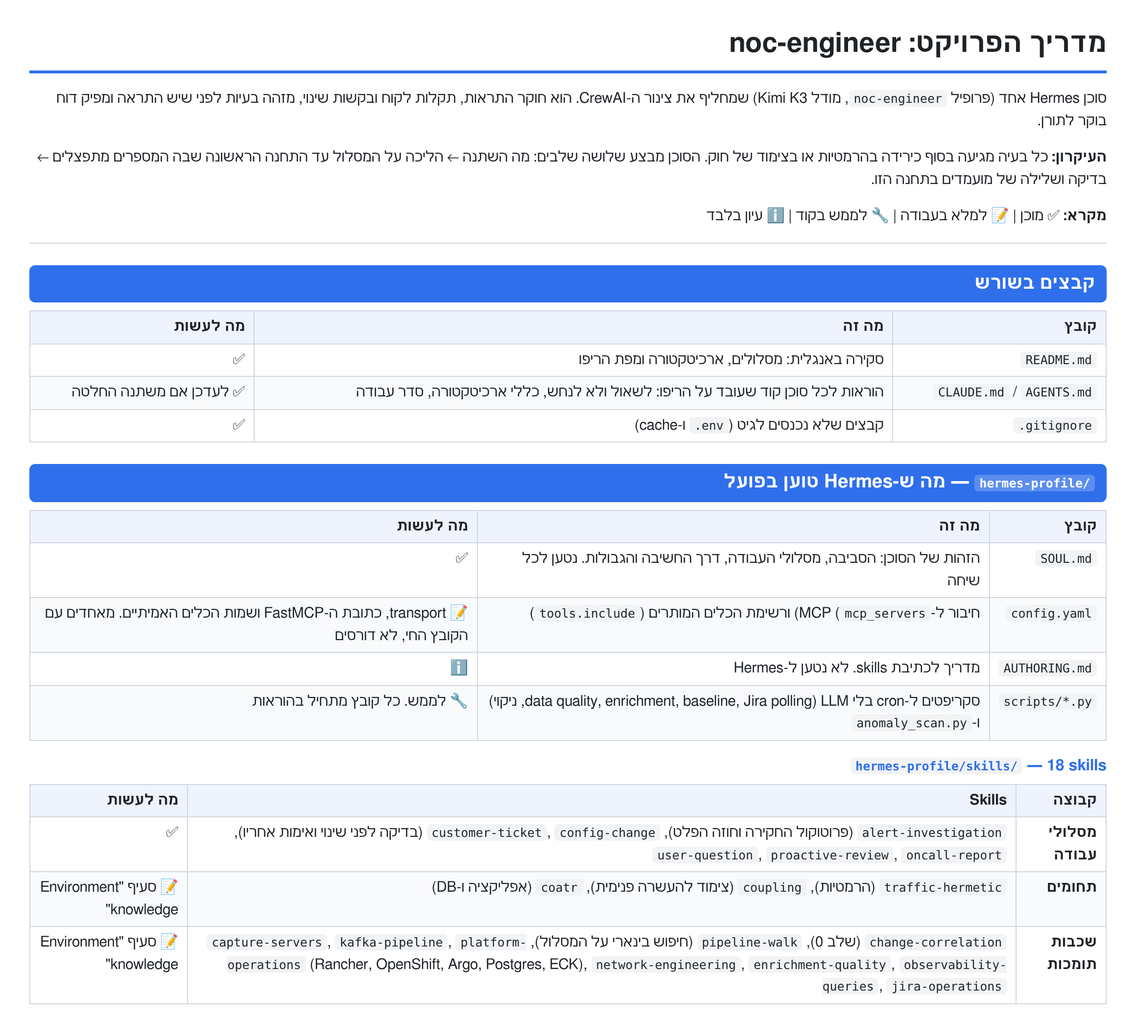
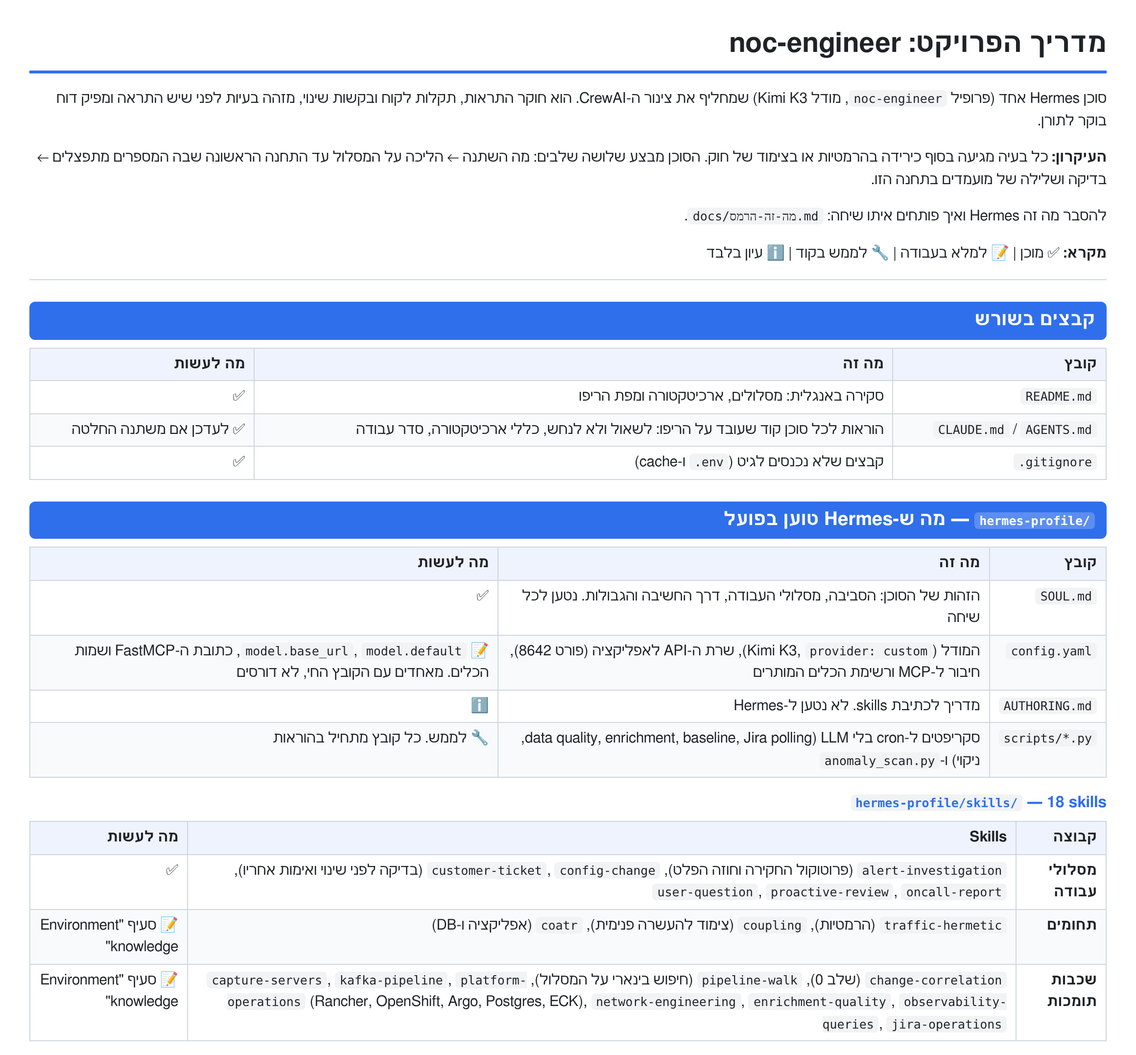
Add Hermes runtime requirements: Kimi K3 custom provider, API server, Slack gateway, k8s Service/Route; web-app chat example; Hebrew 'what is Hermes' doc

Changed region(s): [[0.0, 0.0308, 0.9931, 0.9856], [0.031, 0.8624, 0.1552, 0.9548], [0.0931, 0.77, 0.1552, 0.8316]]

diff --git a/examples/web-app/NocAgentChat.tsx b/examples/web-app/NocAgentChat.tsx
@@ -1,0 +1,64 @@
+// React chat panel for the NOC agent. Talks ONLY to your backend (/api/noc-agent/chat), never to Hermes directly.
+// FOR THE LLM / DEVELOPER: adapt styling to the app; keep messages in state and send the full history each turn
+// (chat completions are stateless; the backend also sends X-Hermes-Session-Id for continuity).
+// Streams: `chat.completion.chunk` text deltas and `hermes.tool.progress` events (shown as a status line).
+import { useRef, useState } from "react";
+
+type Msg = { role: "user" | "assistant"; content: string };
+
+export function NocAgentChat() {
+  const [messages, setMessages] = useState<Msg[]>([]);
+  const [input, setInput] = useState("");
+  const [status, setStatus] = useState("");
+  const conversationId = useRef(crypto.randomUUID());
+
+  async function send() {
+    const text = input.trim();
+    if (!text) return;
+    const history: Msg[] = [...messages, { role: "user", content: text }];
+    setMessages([...history, { role: "assistant", content: "" }]);
+    setInput("");
+
+    const res = await fetch("/api/noc-agent/chat", {
+      method: "POST",
+      headers: { "Content-Type": "application/json" },
+      body: JSON.stringify({ conversation_id: conversationId.current, message_id: crypto.randomUUID(), messages: history }),
+    });
+    const reader = res.body!.getReader();
+    const decoder = new TextDecoder();
+    let buf = "";
+    for (;;) {
+      const { done, value } = await reader.read();
+      if (done) break;
+      buf += decoder.decode(value, { stream: true });
+      const lines = buf.split("\n");
+      buf = lines.pop() ?? "";
+      for (const line of lines) {
+        if (line.startsWith("event: hermes.tool.progress")) { setStatus("running tools…"); continue; }
+        if (!line.startsWith("data: ") || line === "data: [DONE]") continue;
+        try {
+          const evt = JSON.parse(line.slice(6));
+          if (evt.tool || evt.type === "hermes.tool.progress") { setStatus(`tool: ${evt.tool ?? evt.name ?? ""}`); continue; }
+          const delta = evt.choices?.[0]?.delta?.content ?? "";
+          if (delta) setMessages((m) => {
+            const copy = [...m];
+            copy[copy.length - 1] = { role: "assistant", content: copy[copy.length - 1].content + delta };
+            return copy;
+          });
+        } catch { /* ignore non-JSON lines */ }
+      }
+    }
+    setStatus("");
+  }
+
+  return (
+    <div dir="auto" style={{ display: "flex", flexDirection: "column", gap: 8 }}>
+      {messages.map((m, i) => (
+        <div key={i} style={{ whiteSpace: "pre-wrap", alignSelf: m.role === "user" ? "flex-end" : "flex-start" }}>{m.content}</div>
+      ))}
+      {status && <small>{status}</small>}
+      <textarea value={input} onChange={(e) => setInput(e.target.value)} placeholder="שאל את סוכן ה-NOC…" />
+      <button onClick={send}>שלח</button>
+    </div>
+  );
+}

diff --git a/examples/web-app/hermes_proxy.py b/examples/web-app/hermes_proxy.py
@@ -1,0 +1,52 @@
+"""Backend proxy: lets your web app's chat talk to Hermes without exposing API_SERVER_KEY to the browser.
+
+FOR THE LLM / DEVELOPER OPENING THIS FILE
+Drop this router into the app's existing Python backend (FastAPI). It streams Hermes' answer back to the UI.
+- Hermes API: OpenAI-compatible, POST {HERMES_URL}/v1/chat/completions, Bearer API_SERVER_KEY.
+- Continuity: X-Hermes-Session-Id = the UI conversation id (one per chat thread);
+  X-Hermes-Session-Key = the logged-in user (scopes long-term memory per user).
+- Idempotency-Key per user message so a network retry does not run the investigation twice.
+- Auth: use the app's own login; only allowed team members may reach this route.
+Requires: fastapi, httpx. Config from env: HERMES_URL (k8s Service/Route), HERMES_API_KEY (= API_SERVER_KEY).
+"""
+import os
+import uuid
+
+import httpx
+from fastapi import APIRouter, Depends, Request
+from fastapi.responses import StreamingResponse
+
+HERMES_URL = os.environ["HERMES_URL"].rstrip("/")          # e.g. http://hermes-noc-engineer:8642
+HERMES_API_KEY = os.environ["HERMES_API_KEY"]
+MODEL = os.environ.get("HERMES_MODEL_NAME", "noc-engineer")  # = gateway.api_server.model_name
+
+router = APIRouter()
+
+
+def current_user(request: Request) -> str:
+    """Replace with the app's real auth dependency."""
+    raise NotImplementedError
+
+
+@router.post("/api/noc-agent/chat")
+async def chat(request: Request, user: str = Depends(current_user)):
+    body = await request.json()            # {"conversation_id": "...", "messages": [{"role": "user", "content": "..."}]}
+    headers = {
+        "Authorization": f"Bearer {HERMES_API_KEY}",
+        "X-Hermes-Session-Id": body["conversation_id"],
+        "X-Hermes-Session-Key": f"user:{user}",
+        "Idempotency-Key": body.get("message_id") or str(uuid.uuid4()),
+    }
+    payload = {"model": MODEL, "messages": body["messages"], "stream": True}
+
+    async def relay():
+        async with httpx.AsyncClient(timeout=httpx.Timeout(600, connect=10)) as client:
+            async with client.stream("POST", f"{HERMES_URL}/v1/chat/completions",
+                                     json=payload, headers=headers) as r:
+                r.raise_for_status()
+                async for line in r.aiter_lines():
+                    if line.startswith(":"):       # keepalive comments
+                        continue
+                    yield line + "\n"
+
+    return StreamingResponse(relay(), media_type="text/event-stream")

diff --git a/tests/test_architecture_contracts.py b/tests/test_architecture_contracts.py
@@ -101,3 +101,18 @@ def test_sync_profile_removes_stale_repo_skills(tmp_path):
     assert not (home / "skills" / "old-repo-skill").exists()
     assert (home / "skills" / "agent-made").exists()
     assert {p.name for p in (home / "skills").iterdir()} >= set(SKILLS)
+
+
+def test_hermes_runtime_requirements_present():
+    import yaml
+    cfg = yaml.safe_load((ROOT / "hermes-profile" / "config.yaml").read_text())
+    assert cfg["model"]["provider"] == "custom" and cfg["model"]["base_url"].endswith("/v1")
+    api = cfg["gateway"]["api_server"]
+    assert api["enabled"] is True and api["port"] == 8642 and "key" not in api   # key only in .env
+    env = (ROOT / "deployment" / ".env.example").read_text()
+    for var in ["OPENAI_API_KEY", "API_SERVER_KEY", "SLACK_BOT_TOKEN", "SLACK_APP_TOKEN", "SLACK_ALLOWED_USERS", "SLACK_HOME_CHANNEL"]:
+        assert f"{var}=" in env, var
+    k8s = list(yaml.safe_load_all((ROOT / "deployment" / "k8s" / "hermes.yaml").read_text()))
+    dep = next(d for d in k8s if d["kind"] == "Deployment")
+    assert dep["spec"]["replicas"] == 1
+    assert {d["kind"] for d in k8s} >= {"Service", "Route", "PersistentVolumeClaim"}

diff --git a/docs/מה-זה-הרמס.md b/docs/מה-זה-הרמס.md
@@ -1,0 +1,60 @@
+# מה זה Hermes, ואיך הוא עובד אצלנו
+
+## במשפט אחד
+**Hermes Agent** הוא סוכן AI בקוד פתוח של Nous Research שרץ אצלנו on-prem. זה תהליך אחד שמחזיק "עובד" עם זהות, ידע מקצועי, כלים, זיכרון ולוח זמנים. אפשר לדבר איתו ב-Slack, בצ'אט באפליקציה ובטרמינל, והוא גם עובד לבד לפי שעון.
+
+**Hermes הוא לא המודל.** המודל (אצלנו Kimi K3) הוא ה"מוח" שמנסח ומחליט. Hermes הוא ה"גוף": הוא מחבר את המודל לכלים, לזיכרון, לערוצים ולמשימות מתוזמנות, ושומר על הגבולות.
+
+## ממה הוא בנוי
+| רכיב | מה זה | אצלנו |
+|---|---|---|
+| **פרופיל** | סביבה מבודדת עם תיקייה משלה (`HERMES_HOME`): זהות, הגדרות, זיכרון, היסטוריה, משימות | `noc-engineer` |
+| **SOUL.md** | ה"אישיות" והכללים. נטען לכל שיחה | מהנדס NOC שמאתר איפה התקלה, קריאה בלבד |
+| **Skills** | קבצי ידע ונהלים (`SKILL.md`). נטענים רק כשרלוונטי | 18: מסלולי עבודה, תחומים ושכבות |
+| **MCP** | הפרוטוקול שדרכו הוא מפעיל כלים חיצוניים | ה-FastMCP שלך: Prometheus, Kafka, Jira, חוקים ועוד |
+| **מודל** | ה-LLM שמאחוריו, דרך API תואם OpenAI | Kimi K3 (`provider: custom`) |
+| **זיכרון** | מה שהוא לומד לאורך זמן (`memories/`) | ידע על הסביבה. לא מסד נתונים תפעולי |
+| **Gateway** | התהליך שרץ תמיד ומחבר את הערוצים | Slack, API לאפליקציה ו-cron, בתהליך אחד |
+| **Cron** | משימות מתוזמנות, עם LLM או בלי | דוח בוקר, סקירה יזומה כל 15 דקות, 5 סקריפטים |
+
+## איך שיחה עובדת
+1. משתמש כותב ב-Slack או באפליקציה.
+2. ה-Gateway מקבל את ההודעה ופותח או ממשיך סשן.
+3. Hermes בונה את ההנחיה: SOUL, הזיכרון הרלוונטי, רשימת ה-skills והכלים המותרים (`tools.include`).
+4. המודל מחליט: לטעון skill, להפעיל כלי MCP, לחשוב שוב. הלולאה חוזרת עד שיש תשובה.
+5. התשובה חוזרת לאותו ערוץ, וכל צעד נרשם בהיסטוריית הסשן.
+
+## איך משתמשים פותחים איתו שיחה
+| ערוץ | למי | איך |
+|---|---|---|
+| **Slack** | כל הצוות | מתייגים את הבוט בערוץ הצוות או שולחים לו הודעה פרטית. כל thread הוא שיחה נפרדת. רק מי שמופיע ב-`SLACK_ALLOWED_USERS` מקבל תשובה |
+| **האפליקציה שלך** | משתמשי ה-UI | רכיב צ'אט (`examples/web-app/NocAgentChat.tsx`) שקורא ל-backend שלך (`hermes_proxy.py`), שקורא ל-Hermes ב-`/v1/chat/completions` (פורט 8642). המפתח נשאר בשרת |
+| **Open WebUI / LibreChat** | אופציונלי | מחברים כ-endpoint תואם OpenAI עם `API_SERVER_KEY`, ו-Hermes מופיע כמודל `noc-engineer` |
+| **טרמינל** | מנהל ובדיקות | `hermes -p noc-engineer chat` |
+
+דוח הבוקר והתראות הסקירה היזומה נשלחים לערוץ ה-Slack שמוגדר ב-`SLACK_HOME_CHANNEL`.
+
+## מה Hermes דורש כדי לרוץ
+| מה | איפה מגדירים | מי ממלא |
+|---|---|---|
+| כתובת המודל ושם המודל | `config.yaml` → `model.base_url`, `model.default` | אתה |
+| מפתח המודל | `.env` → `OPENAI_API_KEY` | אתה (Secret) |
+| שרת MCP ורשימת כלים | `config.yaml` → `mcp_servers.noc_mcp` | אתה |
+| API לאפליקציה | `config.yaml` → `gateway.api_server`, ו-`API_SERVER_KEY` ב-`.env` | ✅ מוגדר, צריך רק מפתח |
+| Slack | `SLACK_BOT_TOKEN` (xoxb), `SLACK_APP_TOKEN` (xapp), `SLACK_ALLOWED_USERS`, `SLACK_HOME_CHANNEL` | אתה. את ה-app ב-Slack יוצרים עם Socket Mode |
+| אחסון קבוע | PVC ל-`HERMES_HOME` | אתה: storage class ונתיב ב-image |
+| תהליך רץ | `hermes -p noc-engineer gateway run`, עותק אחד בלבד | ✅ ב-`deployment/k8s/hermes.yaml` |
+
+## גבולות חשובים
+- **עותק אחד בלבד.** שני עותקים יריצו כל cron פעמיים, ו-Slack מאפשר חיבור אחד לכל token.
+- **ההרשאות נאכפות ב-MCP, לא ב-SOUL.** ה-SOUL הוא בקשה מהמודל. המניעה האמיתית היא שכלי כתיבה מסוכנים פשוט לא קיימים.
+- **כל המשתמשים מקבלים את אותם כלים.** הרשאה לפי משתמש אפשרית רק בשכבת ה-MCP או ב-backend של האפליקציה.
+- **הזיכרון משותף לפרופיל.** לא שומרים בו מידע אישי או פרטי לקוחות.
+- **את `config.yaml` החי משנים** עם `hermes config set`, לא בעריכה ידנית.
+
+## קישורים
+- תיעוד: https://hermes-agent.nousresearch.com/docs/
+- API Server: https://hermes-agent.nousresearch.com/docs/user-guide/features/api-server
+- Slack: https://hermes-agent.nousresearch.com/docs/user-guide/messaging/slack
+- Cron: https://hermes-agent.nousresearch.com/docs/user-guide/features/cron
+- MCP: https://hermes-agent.nousresearch.com/docs/reference/mcp-config-reference

diff --git a/docs/מדריך-הפרויקט.md b/docs/מדריך-הפרויקט.md
@@ -4,6 +4,8 @@
 
 **העיקרון:** כל בעיה מגיעה בסוף כירידה בהרמטיות או בצימוד של חוק. הסוכן מבצע שלושה שלבים: מה השתנה ← הליכה על המסלול עד התחנה הראשונה שבה המספרים מתפצלים ← בדיקה ושלילה של מועמדים בתחנה הזו.
 
+להסבר מה זה Hermes ואיך פותחים איתו שיחה: `docs/מה-זה-הרמס.md`.
+
 **מקרא:** ✅ מוכן | 📝 למלא בעבודה | 🔧 לממש בקוד | ℹ עיון בלבד
 
 ---
@@ -19,7 +21,7 @@
 | קובץ | מה זה | מה לעשות |
 |---|---|---|
 | `SOUL.md` | הזהות של הסוכן: הסביבה, מסלולי העבודה, דרך החשיבה והגבולות. נטען לכל שיחה | ✅ |
-| `config.yaml` | חיבור ל-MCP (`mcp_servers`) ורשימת הכלים המותרים (`tools.include`) | 📝 transport, כתובת ה-FastMCP ושמות הכלים האמיתיים. מאחדים עם הקובץ החי, לא דורסים |
+| `config.yaml` | המודל (Kimi K3, `provider: custom`), שרת ה-API לאפליקציה (פורט 8642), חיבור ל-MCP ורשימת הכלים המותרים | 📝 `model.base_url`, `model.default`, כתובת ה-FastMCP ושמות הכלים. מאחדים עם הקובץ החי, לא דורסים |
 | `AUTHORING.md` | מדריך לכתיבת skills. לא נטען ל-Hermes | ℹ |
 | `scripts/*.py` | סקריפטים ל-cron בלי LLM (data quality, enrichment, baseline, Jira polling, ניקוי) ו-`anomaly_scan.py` | 🔧 לממש. כל קובץ מתחיל בהוראות |
 
@@ -60,17 +62,24 @@
 ## `deployment/` — פריסה
 | נתיב | מה זה | מה לעשות |
 |---|---|---|
-| `k8s/` | Deployment, PVC ו-ConfigMap של הפרופיל עבור OpenShift/Rancher | 📝 image, נתיב `HERMES_HOME`, namespace, secrets |
+| `k8s/` | Deployment (`gateway run`, עותק אחד), PVC, ConfigMap של הפרופיל, Service ו-Route לפורט 8642 | 📝 image, נתיב `HERMES_HOME`, namespace, Secret. ב-Rancher: Ingress במקום Route |
 | `argocd/application.yaml` | אפליקציית Argo לפריסה ב-GitOps | 📝 repo פנימי, project, cluster |
 | `cron/install-cron.sh` + `prompts/` | יצירת 7 ג'ובים ב-`hermes cron create` | 📝 לאמת דגלים מול `hermes cron create --help`, ו-`NOC_DELIVER` לערוץ התורן |
 | `sync-profile.sh` | העתקה ידנית של הפרופיל, מוחק skills ישנים של הריפו בלבד | ✅ לפיתוח. בייצור Argo מחליף אותו |
-| `.env.example` | רשימת משתני סביבה וסודות | 📝 ממלאים ב-Secret, לא בגיט |
+| `.env.example` | משתני סביבה וסודות: `OPENAI_API_KEY`, `API_SERVER_KEY`, `SLACK_*` ו-backends | 📝 ממלאים ב-Secret, לא בגיט |
 | `config/settings.example.yaml` | הגדרות לקוד שלנו (Kafka, Postgres) | 📝 |
 | `postgres/schema.sql`, `docker-compose.yml` | סכמת היסטוריה ו-Postgres מקומי לפיתוח | ℹ |
+
+## `examples/web-app/` — צ'אט באפליקציה שלך
+| קובץ | מה זה | מה לעשות |
+|---|---|---|
+| `hermes_proxy.py` | route ב-FastAPI שמעביר את הצ'אט ל-Hermes עם stream. מפתח ה-API נשאר בשרת, יש session לפי שיחה ו-memory לפי משתמש | 🔧 לחבר ל-auth של האפליקציה ולהגדיר `HERMES_URL` ו-`HERMES_API_KEY` |
+| `NocAgentChat.tsx` | רכיב React לצ'אט עם stream וסטטוס כלים | 🔧 להתאים לעיצוב ולמקם באפליקציה |
 
 ## `docs/`
 | קובץ | מה זה | מה לעשות |
 |---|---|---|
+| `מה-זה-הרמס.md` | מה זה Hermes, ממה הוא בנוי, איך פותחים איתו שיחה ומה הוא דורש | ℹ |
 | `pipeline-map.md` | הסבר מפת המסלול ושאלות למילוי | 📝 יחד עם `pipeline.yaml` |
 | `migration-from-crewai.md` | למה המסקנות לא חתכו, מיפוי רכיבים ותוכנית shadow mode | 📝 שאלות פתוחות |
 | `hermes-mapping.md` | מה Hermes קורא מול מה הקוד שלנו קורא | ℹ |
@@ -93,4 +102,6 @@
 4. **Day 0:** Hermes עם Kimi K3 וה-FastMCP, ותחקיר של התראה אמיתית אחת מול מה ש-CrewAI כתב.
 5. **סעיפי "Environment knowledge"** ב-skills.
 6. **השוואה על היסטוריה:** 20–30 התראות שנפתרו, ואז shadow mode.
-7. **פריסה עם Argo,** ואז `install-cron.sh`.
+7. **Slack:** ליצור app עם Socket Mode, ולמלא `SLACK_BOT_TOKEN`, `SLACK_APP_TOKEN`, `SLACK_ALLOWED_USERS` ו-`SLACK_HOME_CHANNEL`.
+8. **פריסה עם Argo,** ואז `install-cron.sh`.
+9. **אפליקציה:** לחבר את `hermes_proxy.py` ואת `NocAgentChat.tsx`.

diff --git a/docs/hermes-mapping.md b/docs/hermes-mapping.md
@@ -6,7 +6,7 @@ Verified against the Hermes docs (links below). "Ask the owner" items are not ve
 |---|---|---|---|
 | `hermes-profile/SOUL.md` | `$HERMES_HOME/SOUL.md` | **Hermes** (slot #1 of the system prompt) | Prompt text: no developer notes |
 | `hermes-profile/skills/<name>/SKILL.md` | `$HERMES_HOME/skills/` | **Hermes** (loaded on demand; attachable to cron via `--skill`) | Frontmatter `name`, `description` |
-| `hermes-profile/config.yaml` | merged into `$HERMES_HOME/config.yaml` | **Hermes** | `mcp_servers.<name>`: `command`/`args`/`env` or `url`/`headers`, `tools.include/exclude`, `timeout`; edit via `hermes config set` / `hermes mcp add` |
+| `hermes-profile/config.yaml` | merged into `$HERMES_HOME/config.yaml` | **Hermes** | `model` (provider custom, base_url, default), `gateway.api_server` (8642), `mcp_servers`. |
 | `hermes-profile/scripts/*.py` | `$HERMES_HOME/scripts/` | **Hermes cron** (no-agent mode) | stdout delivered verbatim, no LLM |
 | `deployment/cron/install-cron.sh` | run once | **Hermes CLI** (`hermes cron create`) | Jobs are stored by Hermes in `cron/jobs.json`; never hand-edit |
 | `deployment/cron/prompts/*.md` | read by install script | Hermes (as job prompt) | Self-contained: each run is a fresh session |
@@ -16,6 +16,11 @@ Verified against the Hermes docs (links below). "Ask the owner" items are not ve
 | `deployment/k8s/`, `deployment/argocd/` | cluster | Argo CD | Hermes Deployment + PVC + profile ConfigMap (skeleton, TBD values) |
 | `noc-mcp/config/pipeline.yaml` | - | our code | Pipeline hops and KPI definitions |
 | `deployment/docker-compose.yml` | - | Docker | Local dev Postgres only |
+
+## Entry points
+- Slack gateway (Socket Mode): `SLACK_BOT_TOKEN`, `SLACK_APP_TOKEN`, `SLACK_ALLOWED_USERS`, `SLACK_HOME_CHANNEL` in `.env`.
+- API server (OpenAI-compatible, port 8642): `/v1/chat/completions`, `/health`; `API_SERVER_KEY` required; `X-Hermes-Session-Id`, `X-Hermes-Session-Key`, `Idempotency-Key` headers. Web app integration: `examples/web-app/`.
+- CLI: `hermes -p noc-engineer chat`.
 
 ## Not yet verified (ask the owner / test)
 - Exact `hermes cron create` flags for no-agent scripts and delivery targets on his version.
@@ -27,3 +32,5 @@ Verified against the Hermes docs (links below). "Ask the owner" items are not ve
 - Profiles / layout: https://mer.vin/2026/05/hermes-agent-dot-hermes-folder-layout-soul-secrets-memory-skills/ , https://blakecrosley.com/guides/hermes
 - Cron: https://hermes-agent.nousresearch.com/docs/user-guide/features/cron , https://hermes-agent.nousresearch.com/docs/developer-guide/cron-internals
 - MCP: https://hermes-agent.nousresearch.com/docs/reference/mcp-config-reference , https://hermes-agent.nousresearch.com/docs/guides/use-mcp-with-hermes
+- API server: https://hermes-agent.nousresearch.com/docs/user-guide/features/api-server
+- Slack: https://hermes-agent.nousresearch.com/docs/user-guide/messaging/slack

diff --git a/AGENTS.md b/AGENTS.md
@@ -3,10 +3,11 @@
 
 ## Read first
 1. `docs/מדריך-הפרויקט.md` — Hebrew guide: every folder/file and what is left to do.
-2. `docs/pipeline-map.md` + `noc-mcp/config/pipeline.yaml` — the data path; core of every investigation.
-3. `docs/project-map.he.md` — the original project map (Hebrew, original intent).
-4. `docs/hermes-noc-overview.png` — the overview diagram. It is a VISION, not a spec: build the MVP first.
-5. `README.md` — repo map and start order. Each source file has a header docstring saying what to implement.
+2. `docs/מה-זה-הרמס.md` — what Hermes is, entry points (Slack, API server, CLI) and what it requires.
+3. `docs/pipeline-map.md` + `noc-mcp/config/pipeline.yaml` — the data path; core of every investigation.
+4. `docs/project-map.he.md` — the original project map (Hebrew, original intent).
+5. `docs/hermes-noc-overview.png` — the overview diagram. It is a VISION, not a spec: build the MVP first.
+6. `README.md` — repo map and start order. Each source file has a header docstring saying what to implement.
 
 ## Who you work with
 the repository owner. Talk to him in **Hebrew**, bottom line first, concise, no padding. Code, comments, commit messages and SKILL/SOUL files are in **English**. Push back honestly; do not just agree.

diff --git a/CLAUDE.md b/CLAUDE.md
@@ -3,10 +3,11 @@
 
 ## Read first
 1. `docs/מדריך-הפרויקט.md` — Hebrew guide: every folder/file and what is left to do.
-2. `docs/pipeline-map.md` + `noc-mcp/config/pipeline.yaml` — the data path; core of every investigation.
-3. `docs/project-map.he.md` — the original project map (Hebrew, original intent).
-4. `docs/hermes-noc-overview.png` — the overview diagram. It is a VISION, not a spec: build the MVP first.
-5. `README.md` — repo map and start order. Each source file has a header docstring saying what to implement.
+2. `docs/מה-זה-הרמס.md` — what Hermes is, entry points (Slack, API server, CLI) and what it requires.
+3. `docs/pipeline-map.md` + `noc-mcp/config/pipeline.yaml` — the data path; core of every investigation.
+4. `docs/project-map.he.md` — the original project map (Hebrew, original intent).
+5. `docs/hermes-noc-overview.png` — the overview diagram. It is a VISION, not a spec: build the MVP first.
+6. `README.md` — repo map and start order. Each source file has a header docstring saying what to implement.
 
 ## Who you work with
 the repository owner. Talk to him in **Hebrew**, bottom line first, concise, no padding. Code, comments, commit messages and SKILL/SOUL files are in **English**. Push back honestly; do not just agree.

diff --git a/deployment/k8s/README.md b/deployment/k8s/README.md
@@ -5,5 +5,7 @@
 - `kustomization.yaml` builds a ConfigMap from `hermes-profile/` (SOUL.md, skills, scripts) so the profile is versioned and deployed by Argo, not copied by hand.
 - An init container copies the ConfigMap into the persistent HERMES_HOME (PVC) on every start, deleting only repo-managed skills (see `profile-manifest.txt` logic in sync-profile.sh), so Hermes memory/sessions/cron jobs survive.
 - `config.yaml` is NOT overwritten: it lives on the PVC and is changed with `hermes config set` (or a dedicated merge job).
-- Runs as non-root (OpenShift restricted SCC). Egress only to: Kimi endpoint, MCP server, Slack, Jira.
+- Runs as non-root (OpenShift restricted SCC). Egress only to: Kimi endpoint, MCP server, Slack (Socket Mode, outbound WebSocket), Jira.
+- One process (`hermes gateway run`) serves Slack, cron and the API server (port 8642, `/health`). Service + Route expose the API to the web app backend only; never to browsers directly.
+- Secret `hermes-noc-engineer-env` holds the values from `deployment/.env.example` (OPENAI_API_KEY, API_SERVER_KEY, SLACK_*, backends).
 - After first deploy: exec into the pod and run `deployment/cron/install-cron.sh` once.

diff --git a/README.md b/README.md
@@ -24,6 +24,7 @@ Every investigation must locate the problem (`suspected_location.hop`, `rule_id`
 - The Python anomaly engine is rule-centric (hermeticity/coupling per rule vs baseline, hop divergence) and deterministic. Hermes correlates and explains.
 - Uses existing infrastructure: Kafka for events, org Postgres for investigation history. No RabbitMQ.
 - Production deploy: OpenShift/Rancher via Argo CD (`deployment/k8s`, `deployment/argocd`). `docker-compose.yml` is local dev only.
+- Entry points: Slack (Socket Mode), the web app via the API server (`examples/web-app/`), CLI. What Hermes is and how users reach it (Hebrew): `docs/מה-זה-הרמס.md`.
 - Hebrew guide to every folder and file: `docs/מדריך-הפרויקט.md`.
 
 ## Repository map
